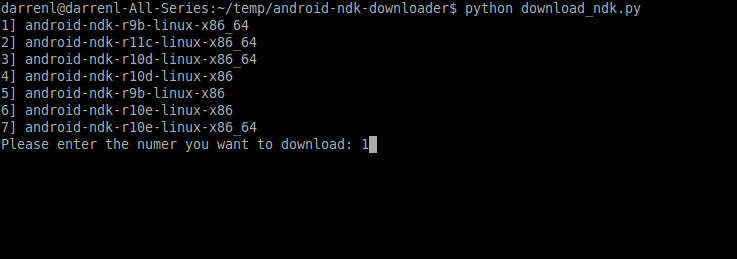
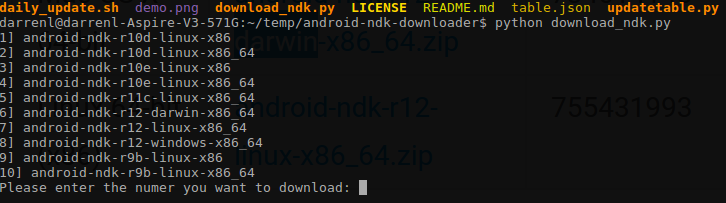
add window/mac ndk link

Changed region(s): [[0.0, 0.0, 1.0, 0.6502], [0.0, 0.8276, 0.5152, 0.9754], [0.0, 0.6798, 0.3636, 0.798]]

diff --git a/updatetable.py b/updatetable.py
@@ -14,25 +14,26 @@ def appendToTable(title, link):
     jsonFile='table.json'
     with open(jsonFile) as json_file:
         json_data = json.load(json_file)
-        print(json_data)
 
     if json_data is not None:
+        print "Append a new ndk download_link if not existed:" + title
         json_data[title] = link
         with open(jsonFile, mode='w') as f:
-            json.dump(json_data, f)
+            json.dump(json_data, f, indent=4, sort_keys=True)
 
 if __name__=='__main__':
     print 'Getting the latest NDK version'
     soup = getSoup('https://developer.android.com/ndk/downloads/index.html')
     all_td = soup.findAll('td')
 
-    linux_td = None
-    for each_td in all_td:
-        if 'linux' in str(each_td):
-            linux_td = each_td
-            break
+    download_os = ['linux', 'windows', 'darwin']
+    for os_td in download_os:
+        for each_td in all_td:
+            if os_td in str(each_td):
+                os_td = each_td
+                break
 
-    download_link=linux_td.a.get('href')
-    title=linux_td.a.getText().split('.', 1)[0]
-    appendToTable(title, download_link)
+        download_link=os_td.a.get('href')
+        title=os_td.a.getText().split('.', 1)[0]
+        appendToTable(title, download_link)
 
